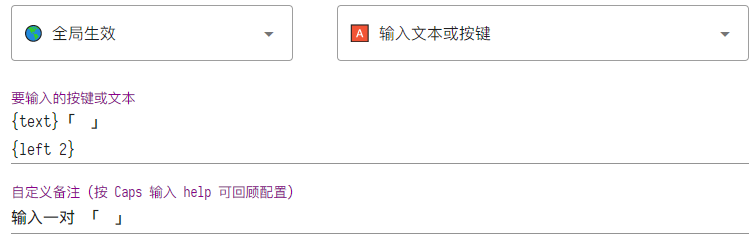
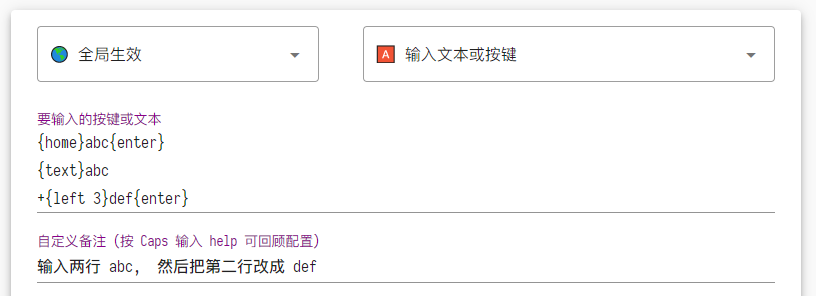
修改示例

diff --git a/config-front/public/SendKeyExample.html b/config-front/public/SendKeyExample.html
@@ -1343,6 +1343,6 @@ pre.md-fences {
 </style><title>SendKeyExample</title>
 </head>
 <body class='typora-export os-windows'><div class='typora-export-content'>
-<div id='write'  class=''><h2 id='简介'><span>简介</span></h2><h3 id='输入文本或按键-的功能有啥用-'><span>&quot;输入文本或按键&quot; 的功能有啥用 ?</span></h3><ol start='' ><li><span>重映射按键,  比如用 3 + H/J/K/L 来输入 0/1/2/3</span></li><li><span>重映射不好按的组合键,  比如用 Capslock+X 来触发 Alt+F4</span></li><li><span>输入成对符号并把光标移动到中间, 比如「 ... 」(...)</span></li><li><span>常用文本缩写, 比如可以让 yx 等于 </span><a href='mailto:youxiang@mail.com'><span>youxiang@mail.com</span></a></li></ol><p>&nbsp;</p><h2 id='输入组合键-1'><span>输入组合键</span></h2><h3 id='输入组合键-2'><span>输入组合键</span></h3><p><span>一些系统自带的快捷键并不是很好按,  比如 Win+Left、Alt+F4、Ctrl+BackSpace</span><br/><span>如果用 </span><code>Capslock+X</code><span> 触发 </span><code>Alt+F4</code><span>,  就能让这些系统自带的快捷键更加快捷</span></p><p><span>举个例子,  你想用 Capslock+T 触发 Win+Left,  那么可以在下面的输入框填 </span><code>#{left}</code><span>: </span></p><p><img src="SendKeyExample-1.png" referrerpolicy="no-referrer" alt="1"><span> </span></p><p><span>其中 </span><code>#</code><span> 表示 Win 键、</span><code>{left}</code><span> 表示左方向键,  另外键盘左下角的四个键都有对应的特殊符号:</span></p><ul><li><code>^</code><span> 表示 Ctrl 键</span></li><li><code>#</code><span> 表示 Win 键</span></li><li><code>!</code><span> 表示 Alt 键</span></li><li><code>+</code><span> 表示 Shift 键</span></li></ul><h3 id='输入组合键的例子'><span>输入组合键的例子</span></h3><figure><table><thead><tr><th style='text-align:left;' ><span>代码</span></th><th style='text-align:left;' ><span>表示的组合键</span></th></tr></thead><tbody><tr><td style='text-align:left;' ><span>^c</span></td><td style='text-align:left;' ><span>Ctrl + C</span></td></tr><tr><td style='text-align:left;' ><span>#e</span></td><td style='text-align:left;' ><span>Win + E</span></td></tr><tr><td style='text-align:left;' ><span>^!c</span></td><td style='text-align:left;' ><span>Ctrl + Alt + C</span></td></tr><tr><td style='text-align:left;' ><span>+!c</span></td><td style='text-align:left;' ><span>Shift + Alt + C</span></td></tr><tr><td style='text-align:left;' ><span>!{f4}</span></td><td style='text-align:left;' ><span>Alt + F4   (这里键名 f4 不止一个字符</span></td></tr><tr><td style='text-align:left;' ><span>^{end}</span></td><td style='text-align:left;' ><span>Ctrl + End (所以要用大括号 {} 括起来</span></td></tr><tr><td style='text-align:left;' ><code>{home}+{end}</code></td><td style='text-align:left;' ><span>依次输入 Home、Shift+End 能选中当前行</span></td></tr><tr><td style='text-align:left;' ><code>{home}+{end}{bs}</code></td><td style='text-align:left;' ><span>依次输入 Home、Shift+End、BackSpace 则删除当前行</span></td></tr><tr><td style='text-align:left;' ><code>{lalt up}{home}+{end}{bs}</code></td><td style='text-align:left;' ><span>如果通过自定义热键 </span><code>Alt+K</code><span> 来删除当前行,  需要先用 </span><code>{lalt up}</code><span> 松开按下的左 Alt 键</span><br><span>否则输入的 Home 会变成 Alt+Home,  全程都受到 Alt 键影响</span></td></tr></tbody></table></figure><p>&nbsp;</p><p>&nbsp;</p><h2 id='输入文本'><span>输入文本</span></h2><h3 id='一个例子'><span>一个例子</span></h3><p><img src="SendKeyExample-2.png" referrerpolicy="no-referrer" alt="2"><span> </span></p><h3 id='上述例子的解释'><span>上述例子的解释</span></h3><p><span>(1) </span><code>abc</code><span> 表示依次输入 a、b、c 三个键</span></p><p><span>(2) </span><code>{text}abc</code><span> 表示输入 abc 这样一串文本, 其中 </span><code>{text}</code><span> 前缀表示输入文本而不是按键, 这能避免中文输入法的影响</span></p><p><span>(3) </span><code>{left 2}</code><span> 表示按两次左方向键,  它等价于 </span><code>{left}{left}</code></p><p><span>(4) 另外如果需要停顿 1000 毫秒,  那么可以添加一行 </span><code>sleep 1000</code></p><p>&nbsp;</p><p>&nbsp;</p><h2 id='特殊按键列表'><span>特殊按键列表</span></h2><p><span>(1) 下表中列出了可以发送的特殊按键 (键名不区分大小写):</span></p><p><span>(2) 更多特殊按键可以参考 </span><a href='https://wyagd001.github.io/zh-cn/docs/commands/Send.htm#keynames'><span>AutoHotkey 文档</span></a></p><figure><table><thead><tr><th style='text-align:left;' ><span>按键代码</span></th><th style='text-align:left;' ><span>表示的按键</span></th></tr></thead><tbody><tr><td style='text-align:left;' ><span>{F1} - {F24}</span></td><td style='text-align:left;' ><span>功能键. 例如: {F12} 表示 F12</span></td></tr><tr><td style='text-align:left;' ><span>{Enter}</span></td><td style='text-align:left;' ><span>Enter (回车键)</span></td></tr><tr><td style='text-align:left;' ><span>{Space}</span></td><td style='text-align:left;' ><span>Space (空格键)</span></td></tr><tr><td style='text-align:left;' ><span>{BS}</span></td><td style='text-align:left;' ><span>Backspace (退格键)</span></td></tr><tr><td style='text-align:left;' ><span>{Del}</span></td><td style='text-align:left;' ><span>Delete (删除键)</span></td></tr><tr><td style='text-align:left;' ><span>{Ins}</span></td><td style='text-align:left;' ><span>Insert (插入键)</span></td></tr><tr><td style='text-align:left;' ><span>{AppsKey}</span></td><td style='text-align:left;' ><span>Menu (右键菜单)</span></td></tr><tr><td style='text-align:left;' ><span>{Up}、{Down}、{Left}、{Right}</span></td><td style='text-align:left;' ><span>↑↓←→ (上下左右方向键)</span></td></tr><tr><td style='text-align:left;' ><span>{PrintScreen}</span></td><td style='text-align:left;' ><span>PrtScr (屏幕截图到剪切板)</span></td></tr><tr><td style='text-align:left;' ><span>{{}、{}}</span></td><td style='text-align:left;' ><span>{、}</span></td></tr><tr><td style='text-align:left;' ><span>{!}、{#}、{+}、{^}</span></td><td style='text-align:left;' ><span>!、#、+、^</span></td></tr><tr><td style='text-align:left;' ><span>{Esc}、{Tab}、{Home}、{End}、{PgUp}、{PgDn}</span></td><td style='text-align:left;' ><span>Esc、Tab、Home、End、PgUp、PgDn</span></td></tr><tr><td style='text-align:left;' ><code>`,</code><span> (因为逗号是特殊符号, 需要使用 ` 转义一下</span></td><td style='text-align:left;' ><span>,</span></td></tr><tr><td style='text-align:left;' ><code>`;</code><span> (因为分号是特殊符号, 需要使用 ` 转义一下</span></td><td style='text-align:left;' ><span>;</span></td></tr><tr><td style='text-align:left;' ><code><span>`</span><span>`</span></code><span> (因为反引号是特殊符号, 需要使用 </span><span>`</span><span> 转义一下</span></td><td style='text-align:left;' ><span>`</span></td></tr><tr><td style='text-align:left;' ><code>`%</code><span> (因为百分号是特殊符号, 需要使用 ` 转义一下</span></td><td style='text-align:left;' ><span>%</span></td></tr></tbody></table></figure><p>&nbsp;</p><h2 id='其他细节'><span>其他细节</span></h2><h3 id='输入动态内容'><span>输入动态内容</span></h3><p><span>如果想输入「 明年是 ? 年 」,  可以这么配: </span><code>% &quot;明年是&quot; . (A_YYYY + 1) . &quot;年&quot;</code></p><p><span>(1) 用 </span><code>%[空格]</code><span> 作为开头,  表示后面的内容不是纯文本,  而是表达式</span></p><p><span>(2) 文本/字符串要用英文双引号括起来, 例如 </span><code>&quot;明年是&quot;</code><span>、</span><code>&quot;年&quot;</code></p><p><span>(3) </span><code>A_YYYY</code><span> 是「 </span><a href='https://wyagd001.github.io/zh-cn/docs/Variables.htm#date'><span>特殊变量</span></a><span> 」, 值为今年的年份,  所以 </span><code>(A_YYYY + 1)</code><span> 也就是明年的年份</span></p><p><span>(4) 最后用英文句点 </span><code>.</code><span> 把各个部分拼接起来</span></p><h3 id='sendevent-模式'><span>sendevent 模式</span></h3><p><span>MyKeymap 默认使用 sendinput 模式发送按键,  此模式速度更快、更可靠</span><br/><span>但极个别情况下会有兼容问题,  比如 WPS Office 无法识别用 sendinput 发送的按键.</span></p><p><span>所以如果遇到「 模拟按键不起作用 」, 试试用 sendevent 发送按键,  从写法①改成写法②:</span></p><p><span>①要输入的按键或文本: </span><code>{left}</code><span></span><br/><span>②要输入的按键或文本: </span><code>sendevent, {left}</code></p><p><span>也就是在前面加上 </span><code>sendevent,</code><span> 前缀, 如果还是不行就联系作者反馈问题.</span></p></div></div>
+<div id='write'  class=''><h2 id='简介'><span>简介</span></h2><h3 id='输入文本或按键-的功能有啥用-'><span>&quot;输入文本或按键&quot; 的功能有啥用 ?</span></h3><ol start='' ><li><span>重映射按键,  比如用 3 + H/J/K/L 来输入 0/1/2/3</span></li><li><span>重映射不好按的组合键,  比如用 Capslock+X 来触发 Alt+F4</span></li><li><span>输入成对符号并把光标移动到中间, 比如「 ... 」(...)</span></li><li><span>常用文本缩写, 比如可以让 yx 等于 </span><a href='mailto:youxiang@mail.com'><span>youxiang@mail.com</span></a></li></ol><p>&nbsp;</p><h2 id='输入组合键-1'><span>输入组合键</span></h2><h3 id='输入组合键-2'><span>输入组合键</span></h3><p><span>一些系统自带的快捷键并不是很好按,  比如 Win+Left、Alt+F4、Ctrl+BackSpace</span><br/><span>如果用 </span><code>Capslock+X</code><span> 触发 </span><code>Alt+F4</code><span>,  就能让这些系统自带的快捷键更加快捷</span></p><p><span>举个例子,  你想用 Capslock+T 触发 Win+Left,  那么可以在下面的输入框填 </span><code>#{left}</code><span>: </span></p><p><img src="SendKeyExample-1.png" referrerpolicy="no-referrer" alt="1"><span> </span></p><p><span>其中 </span><code>#</code><span> 表示 Win 键、</span><code>{left}</code><span> 表示左方向键,  另外键盘左下角的四个键都有对应的特殊符号:</span></p><ul><li><code>^</code><span> 表示 Ctrl 键</span></li><li><code>#</code><span> 表示 Win 键</span></li><li><code>!</code><span> 表示 Alt 键</span></li><li><code>+</code><span> 表示 Shift 键</span></li></ul><h3 id='输入组合键的例子'><span>输入组合键的例子</span></h3><figure><table><thead><tr><th style='text-align:left;' ><span>代码</span></th><th style='text-align:left;' ><span>表示的组合键</span></th></tr></thead><tbody><tr><td style='text-align:left;' ><span>^c</span></td><td style='text-align:left;' ><span>Ctrl + C</span></td></tr><tr><td style='text-align:left;' ><span>#e</span></td><td style='text-align:left;' ><span>Win + E</span></td></tr><tr><td style='text-align:left;' ><span>^!c</span></td><td style='text-align:left;' ><span>Ctrl + Alt + C</span></td></tr><tr><td style='text-align:left;' ><span>+!c</span></td><td style='text-align:left;' ><span>Shift + Alt + C</span></td></tr><tr><td style='text-align:left;' ><span>!{f4}</span></td><td style='text-align:left;' ><span>Alt + F4   (这里键名 f4 不止一个字符</span></td></tr><tr><td style='text-align:left;' ><span>^{end}</span></td><td style='text-align:left;' ><span>Ctrl + End (所以要用大括号 {} 括起来</span></td></tr><tr><td style='text-align:left;' ><code>{home}+{end}</code></td><td style='text-align:left;' ><span>依次输入 Home、Shift+End 能选中当前行</span></td></tr><tr><td style='text-align:left;' ><code>{home}+{end}{bs}</code></td><td style='text-align:left;' ><span>依次输入 Home、Shift+End、BackSpace 则删除当前行</span></td></tr><tr><td style='text-align:left;' ><code>{lalt up}{home}+{end}{bs}</code></td><td style='text-align:left;' ><span>如果通过自定义热键 </span><code>Alt+K</code><span> 来删除当前行,  需要先用 </span><code>{lalt up}</code><span> 松开按下的左 Alt 键</span><br><span>否则输入的 Home 会变成 Alt+Home,  全程都受到 Alt 键影响</span></td></tr></tbody></table></figure><p>&nbsp;</p><p>&nbsp;</p><h2 id='输入文本'><span>输入文本</span></h2><h3 id='一个例子'><span>一个例子</span></h3><p><img src="SendKeyExample-2.png" referrerpolicy="no-referrer" alt="2"><span> </span></p><h3 id='上述例子的解释'><span>上述例子的解释</span></h3><p><span>(1) </span><code>{home}abc{enter}</code><span> 表示依次输入 home、a、b、c、end 这五个键</span></p><p><span>(2) </span><code>{text}abc</code><span> 中的 </span><code>{text}</code><span> 表示输入 abc 这样一串文本、而不是依次按下三个键, 这能避免中文输入法的影响</span></p><p><span>(3) </span><code>{left 3}</code><span> 表示按三次 left 方向键,  而 </span><code>+{left 3}</code><span> 表示按三次 shift + left</span></p><p><span>(4) 另外如果需要停顿 500 毫秒,  还可以添加一行 </span><code>sleep 500</code></p><h3 id='更多例子'><span>更多例子</span></h3><p><img src="excel-insert-row.png" referrerpolicy="no-referrer" alt="excel-insert-row"><span> </span></p><p>&nbsp;</p><h2 id='特殊按键列表'><span>特殊按键列表</span></h2><p><span>(1) 下表中列出了可以发送的特殊按键 (键名不区分大小写):</span></p><p><span>(2) 更多特殊按键可以参考 </span><a href='https://wyagd001.github.io/zh-cn/docs/commands/Send.htm#keynames'><span>AutoHotkey 文档</span></a></p><figure><table><thead><tr><th style='text-align:left;' ><span>按键代码</span></th><th style='text-align:left;' ><span>表示的按键</span></th></tr></thead><tbody><tr><td style='text-align:left;' ><span>{F1} - {F24}</span></td><td style='text-align:left;' ><span>功能键. 例如: {F12} 表示 F12</span></td></tr><tr><td style='text-align:left;' ><span>{Enter}</span></td><td style='text-align:left;' ><span>Enter (回车键)</span></td></tr><tr><td style='text-align:left;' ><span>{Space}</span></td><td style='text-align:left;' ><span>Space (空格键)</span></td></tr><tr><td style='text-align:left;' ><span>{BS}</span></td><td style='text-align:left;' ><span>Backspace (退格键)</span></td></tr><tr><td style='text-align:left;' ><span>{Del}</span></td><td style='text-align:left;' ><span>Delete (删除键)</span></td></tr><tr><td style='text-align:left;' ><span>{Ins}</span></td><td style='text-align:left;' ><span>Insert (插入键)</span></td></tr><tr><td style='text-align:left;' ><span>{AppsKey}</span></td><td style='text-align:left;' ><span>Menu (右键菜单)</span></td></tr><tr><td style='text-align:left;' ><span>{Up}、{Down}、{Left}、{Right}</span></td><td style='text-align:left;' ><span>↑↓←→ (上下左右方向键)</span></td></tr><tr><td style='text-align:left;' ><span>{PrintScreen}</span></td><td style='text-align:left;' ><span>PrtScr (屏幕截图到剪切板)</span></td></tr><tr><td style='text-align:left;' ><span>{{}、{}}</span></td><td style='text-align:left;' ><span>{、}</span></td></tr><tr><td style='text-align:left;' ><span>{!}、{#}、{+}、{^}</span></td><td style='text-align:left;' ><span>!、#、+、^</span></td></tr><tr><td style='text-align:left;' ><span>{Esc}、{Tab}、{Home}、{End}、{PgUp}、{PgDn}</span></td><td style='text-align:left;' ><span>Esc、Tab、Home、End、PgUp、PgDn</span></td></tr><tr><td style='text-align:left;' ><code>`,</code><span> (因为逗号是特殊符号, 需要使用 ` 转义一下</span></td><td style='text-align:left;' ><span>,</span></td></tr><tr><td style='text-align:left;' ><code>`;</code><span> (因为分号是特殊符号, 需要使用 ` 转义一下</span></td><td style='text-align:left;' ><span>;</span></td></tr><tr><td style='text-align:left;' ><code><span>`</span><span>`</span></code><span> (因为反引号是特殊符号, 需要使用 </span><span>`</span><span> 转义一下</span></td><td style='text-align:left;' ><span>`</span></td></tr><tr><td style='text-align:left;' ><code>`%</code><span> (因为百分号是特殊符号, 需要使用 ` 转义一下</span></td><td style='text-align:left;' ><span>%</span></td></tr></tbody></table></figure><p>&nbsp;</p><h2 id='其他细节'><span>其他细节</span></h2><h3 id='输入动态内容'><span>输入动态内容</span></h3><p><span>如果想输入「 明年是 ? 年 」,  可以这么配: </span><code>% &quot;明年是&quot; . (A_YYYY + 1) . &quot;年&quot;</code></p><p><span>(1) 用 </span><code>%[空格]</code><span> 作为开头,  表示后面的内容不是纯文本,  而是表达式</span></p><p><span>(2) 文本/字符串要用英文双引号括起来, 例如 </span><code>&quot;明年是&quot;</code><span>、</span><code>&quot;年&quot;</code></p><p><span>(3) </span><code>A_YYYY</code><span> 是「 </span><a href='https://wyagd001.github.io/zh-cn/docs/Variables.htm#date'><span>特殊变量</span></a><span> 」, 值为今年的年份,  所以 </span><code>(A_YYYY + 1)</code><span> 也就是明年的年份</span></p><p><span>(4) 最后用英文句点 </span><code>.</code><span> 把各个部分拼接起来</span></p><h3 id='sendevent-模式'><span>sendevent 模式</span></h3><p><span>MyKeymap 默认使用 sendinput 模式发送按键,  此模式速度更快、更可靠</span><br/><span>但极个别情况下会有兼容问题,  比如 WPS Office 无法识别用 sendinput 发送的按键.</span></p><p><span>所以如果遇到「 模拟按键不起作用 」, 试试用 sendevent 发送按键,  从写法①改成写法②:</span></p><p><span>①要输入的按键或文本: </span><code>{left}</code><span></span><br/><span>②要输入的按键或文本: </span><code>sendevent, {left}</code></p><p><span>也就是在前面加上 </span><code>sendevent,</code><span> 前缀, 如果还是不行就联系作者反馈问题.</span></p></div></div>
 </body>
 </html>
